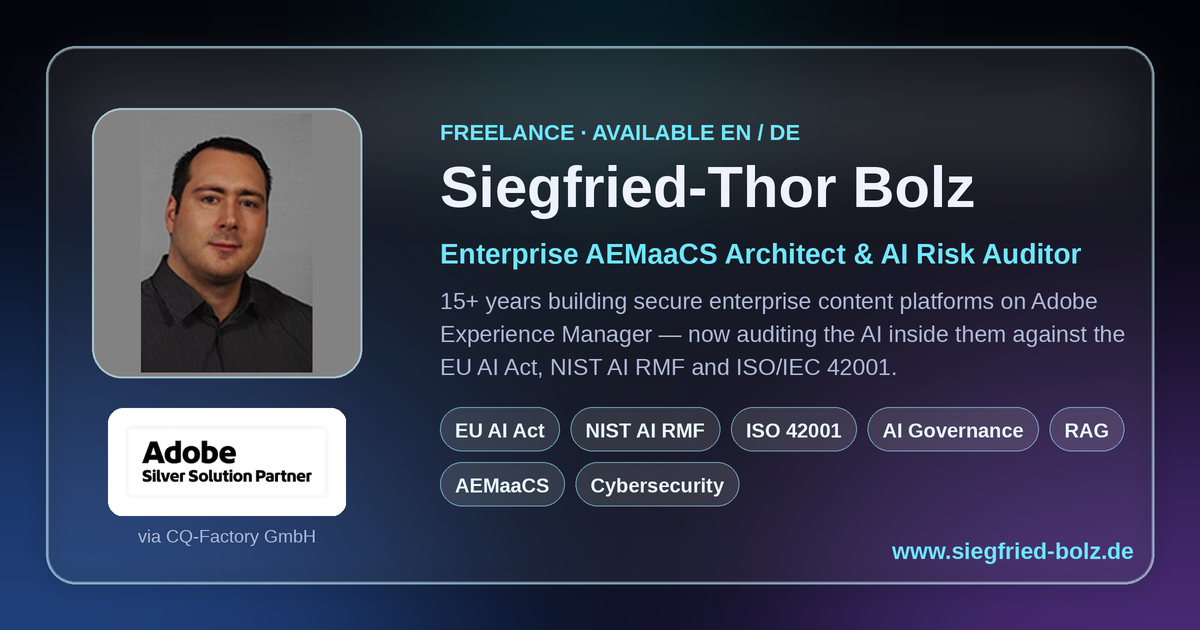
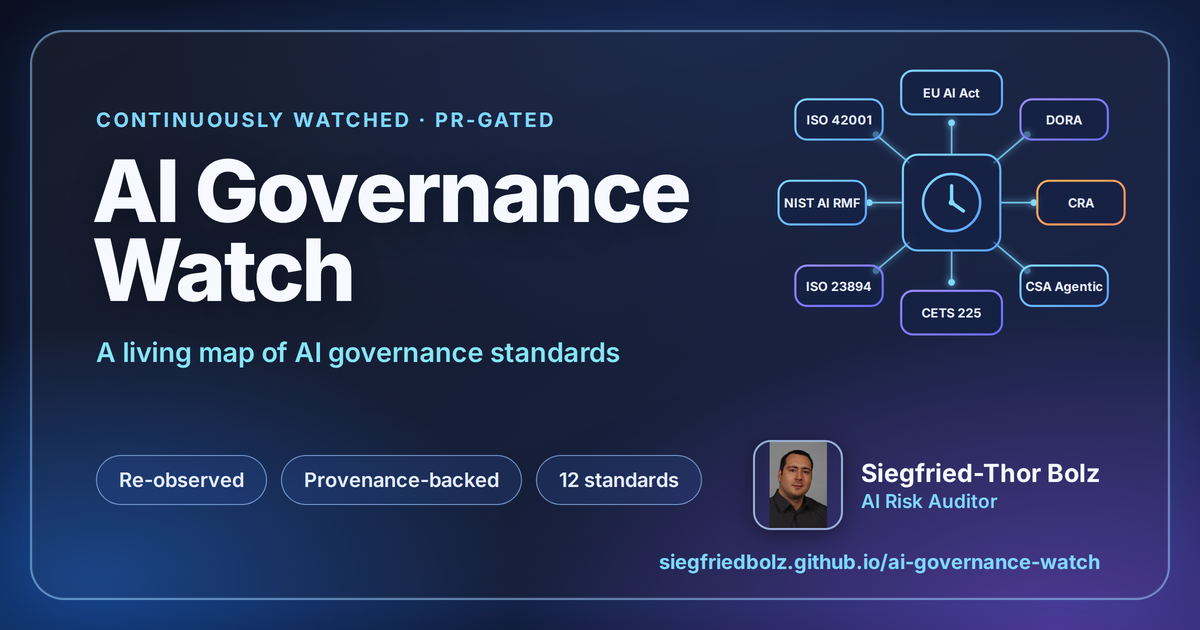
feat(seo): dedicated social-preview card for the library
The og:image was a copy of the personal card from siegfried-bolz.de, so a
shared link to any watch page previewed the author, not the library, and
printed the wrong domain. New 1200x630 card in the visual family of the
Auditable Modular RAG card: the library as the subject (title, "living map"
subtitle, watch-dial hub with eight standard nodes incl. the CRA), the
author bottom right with the github.io URL. Source kept in docs/og-card.html
(render at 2x, downscale). og:image:alt updated; changelog plumbing line.

Claude-Session: https://claude.ai/code/session_01WbLkR21udGDhag53XMPUb2

diff --git a/docs/og-card.html b/docs/og-card.html
@@ -1,0 +1,96 @@
+<!-- Source of memory-mirror/assets/og-image.png (1200x630). Render: headless Chromium, viewport 1200x630, deviceScaleFactor 2, then downscale with Lanczos. Same visual family as the Auditable Modular RAG card on siegfried-bolz.de. -->
+<!doctype html>
+<html lang="en">
+<head>
+<meta charset="utf-8">
+<link href="https://fonts.googleapis.com/css2?family=Inter:wght@500;600;700;800&display=swap" rel="stylesheet">
+<style>
+  html, body { margin: 0; padding: 0; }
+  body { width: 1200px; height: 630px; overflow: hidden; font-family: Inter, -apple-system, "Segoe UI", Helvetica, Arial, sans-serif; color: #eef4ff; }
+  .bg {
+    position: absolute; inset: 0;
+    background:
+      radial-gradient(900px 520px at 88% 100%, rgba(120, 72, 210, .55) 0%, rgba(120, 72, 210, 0) 60%),
+      radial-gradient(700px 420px at 8% 92%, rgba(24, 96, 200, .55) 0%, rgba(24, 96, 200, 0) 60%),
+      radial-gradient(800px 500px at 60% 0%, rgba(20, 34, 70, 1) 0%, rgba(8, 14, 32, 0) 70%),
+      linear-gradient(135deg, #0b1020 0%, #0f1730 45%, #16224a 100%);
+  }
+  .frame {
+    position: absolute; left: 30px; top: 30px; right: 30px; bottom: 30px;
+    border-radius: 34px;
+    border: 2px solid rgba(150, 205, 255, .55);
+    box-shadow: 0 0 0 1px rgba(255,255,255,.06) inset, 0 0 60px rgba(60, 140, 255, .18);
+    background: linear-gradient(160deg, rgba(255,255,255,.05), rgba(255,255,255,.015));
+  }
+  .eyebrow { position: absolute; left: 96px; top: 108px; font-weight: 700; font-size: 20px; letter-spacing: .12em; color: #7fd8ff; text-transform: uppercase; }
+  .title { position: absolute; left: 92px; top: 152px; font-weight: 800; font-size: 86px; line-height: .92; letter-spacing: -.03em; color: #f6f9ff; text-shadow: 0 6px 30px rgba(0,0,0,.35); }
+  .subtitle { position: absolute; left: 96px; top: 336px; font-weight: 600; font-size: 27px; color: #86e6f6; letter-spacing: -.01em; }
+  .chips { position: absolute; left: 96px; top: 455px; display: flex; gap: 14px; }
+  .chip { padding: 12px 22px; border-radius: 999px; border: 1.5px solid rgba(160, 200, 255, .65); background: rgba(40, 70, 140, .32); font-weight: 600; font-size: 20px; color: #e6eeff; }
+  .who { position: absolute; right: 100px; bottom: 100px; display: flex; align-items: center; gap: 18px; }
+  .who img { width: 86px; height: 86px; border-radius: 18px; object-fit: cover; object-position: 50% 30%; border: 2px solid rgba(190, 220, 255, .75); box-shadow: 0 6px 24px rgba(0,0,0,.4); }
+  .who .name { font-weight: 700; font-size: 25px; color: #f6f9ff; }
+  .who .role { font-weight: 600; font-size: 19px; color: #7fd8ff; margin-top: 2px; }
+  .url { position: absolute; right: 100px; bottom: 56px; font-weight: 700; font-size: 20px; color: #7fd8ff; }
+  .motif { position: absolute; right: 72px; top: 64px; transform: scale(.84); transform-origin: top right; }
+</style>
+</head>
+<body>
+<div class="bg"></div>
+<div class="frame"></div>
+
+<div class="eyebrow">Continuously watched · PR-gated</div>
+<div class="title">AI Governance<br>Watch</div>
+<div class="subtitle">A living map of AI governance standards</div>
+<div class="chips"><span class="chip">Re-observed</span><span class="chip">Provenance-backed</span><span class="chip">12 standards</span></div>
+
+<!-- motif: a "watch" hub with standard nodes, in the icon-card style of the RAG card -->
+<svg class="motif" width="420" height="330" viewBox="0 0 420 330" fill="none" xmlns="http://www.w3.org/2000/svg">
+  <defs>
+    <linearGradient id="gCyan" x1="0" y1="0" x2="1" y2="1"><stop offset="0" stop-color="#7fd8ff"/><stop offset="1" stop-color="#5aa0ff"/></linearGradient>
+    <linearGradient id="gPurple" x1="0" y1="0" x2="1" y2="1"><stop offset="0" stop-color="#9a8cff"/><stop offset="1" stop-color="#6b6bff"/></linearGradient>
+    <linearGradient id="gOrange" x1="0" y1="0" x2="1" y2="1"><stop offset="0" stop-color="#ffb35c"/><stop offset="1" stop-color="#ff8a5c"/></linearGradient>
+    <filter id="glow" x="-30%" y="-30%" width="160%" height="160%"><feGaussianBlur stdDeviation="4" result="b"/><feMerge><feMergeNode in="b"/><feMergeNode in="SourceGraphic"/></feMerge></filter>
+    <style>
+      .card { fill: rgba(20,32,70,.55); stroke-width: 2.5; }
+      .lbl { font-family: Inter, Arial, sans-serif; font-weight: 700; font-size: 15px; fill: #e6eeff; text-anchor: middle; }
+      .line { stroke: #7fd8ff; stroke-width: 2; opacity: .8; }
+      .dot { fill: #7fd8ff; }
+    </style>
+  </defs>
+  <!-- connectors -->
+  <g filter="url(#glow)">
+    <path class="line" d="M210 108 V70"/><path class="line" d="M210 222 V260"/>
+    <path class="line" d="M152 165 H112"/><path class="line" d="M268 165 H308"/>
+    <path class="line" d="M160 118 L120 84"/><path class="line" d="M260 118 L300 84"/>
+    <path class="line" d="M160 212 L120 246"/><path class="line" d="M260 212 L300 246"/>
+    <circle class="dot" cx="210" cy="70" r="4"/><circle class="dot" cx="210" cy="260" r="4"/>
+    <circle class="dot" cx="112" cy="165" r="4"/><circle class="dot" cx="308" cy="165" r="4"/>
+    <circle class="dot" cx="120" cy="84" r="4"/><circle class="dot" cx="300" cy="84" r="4"/>
+    <circle class="dot" cx="120" cy="246" r="4"/><circle class="dot" cx="300" cy="246" r="4"/>
+  </g>
+  <!-- hub: watch dial -->
+  <rect class="card" x="152" y="108" width="116" height="114" rx="18" stroke="url(#gCyan)"/>
+  <circle cx="210" cy="165" r="34" stroke="url(#gCyan)" stroke-width="3" fill="none"/>
+  <path d="M210 145 V165 L224 175" stroke="#7fd8ff" stroke-width="4" stroke-linecap="round" fill="none"/>
+  <circle cx="210" cy="165" r="3.5" fill="#7fd8ff"/>
+  <!-- nodes -->
+  <g>
+    <rect class="card" x="150" y="8" width="120" height="52" rx="14" stroke="url(#gCyan)"/><text class="lbl" x="210" y="40">EU AI Act</text>
+    <rect class="card" x="150" y="270" width="120" height="52" rx="14" stroke="url(#gPurple)"/><text class="lbl" x="210" y="302">CETS 225</text>
+    <rect class="card" x="4" y="139" width="104" height="52" rx="14" stroke="url(#gCyan)"/><text class="lbl" x="56" y="171">NIST AI RMF</text>
+    <rect class="card" x="312" y="139" width="104" height="52" rx="14" stroke="url(#gOrange)"/><text class="lbl" x="364" y="171">CRA</text>
+    <rect class="card" x="24" y="42" width="104" height="48" rx="14" stroke="url(#gCyan)"/><text class="lbl" x="76" y="72">ISO 42001</text>
+    <rect class="card" x="292" y="42" width="104" height="48" rx="14" stroke="url(#gPurple)"/><text class="lbl" x="344" y="72">DORA</text>
+    <rect class="card" x="24" y="240" width="104" height="48" rx="14" stroke="url(#gPurple)"/><text class="lbl" x="76" y="270">ISO 23894</text>
+    <rect class="card" x="292" y="240" width="104" height="48" rx="14" stroke="url(#gCyan)"/><text class="lbl" x="344" y="270">CSA Agentic</text>
+  </g>
+</svg>
+
+<div class="who">
+  <img src="../memory-mirror/assets/portrait.png" alt="">
+  <div><div class="name">Siegfried-Thor Bolz</div><div class="role">AI Risk Auditor</div></div>
+</div>
+<div class="url">siegfriedbolz.github.io/ai-governance-watch</div>
+</body>
+</html>

diff --git a/overrides/main.html b/overrides/main.html
@@ -84,7 +84,7 @@
   <meta property="og:image" content="{{ og_image }}">
   <meta property="og:image:width" content="1200">
   <meta property="og:image:height" content="630">
-  <meta property="og:image:alt" content="AI Governance Watch — by Siegfried-Thor Bolz">
+  <meta property="og:image:alt" content="AI Governance Watch — a living map of AI governance standards, by Siegfried-Thor Bolz, AI Risk Auditor">
   {%- if page and not page.is_homepage %}
   <meta property="article:author" content="Siegfried-Thor Bolz">
   <meta property="article:section" content="AI governance">

diff --git a/memory-mirror/changelog.md b/memory-mirror/changelog.md
@@ -77,7 +77,9 @@ the CETS 225 treaty chart were fully re-observed and carry `last_observed_at`
   schema and watch list updated; allowlist extended by the EBA, ESMA, EIOPA and
   OWASP GenAI hosts). The home page's "Last updated" line and its `dateModified`
   now show the newest `last_observed_at` of any watched page instead of the
-  commit date of the home page itself.
+  commit date of the home page itself. New social-preview card (`assets/og-image.png`)
+  in the visual family of the Auditable Modular RAG card: the library as the subject, the
+  author bottom right; source in `docs/og-card.html`.
 
 ---
 
